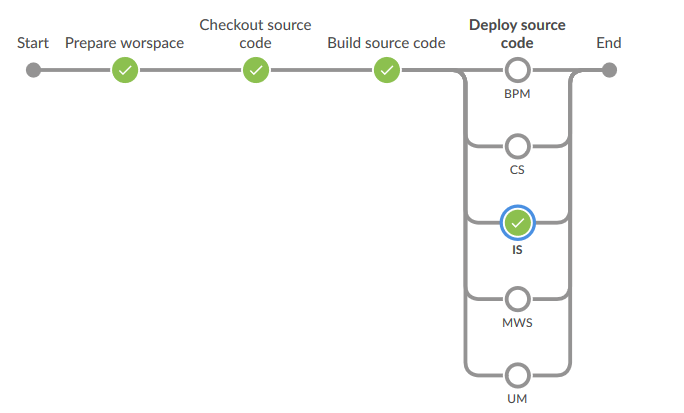
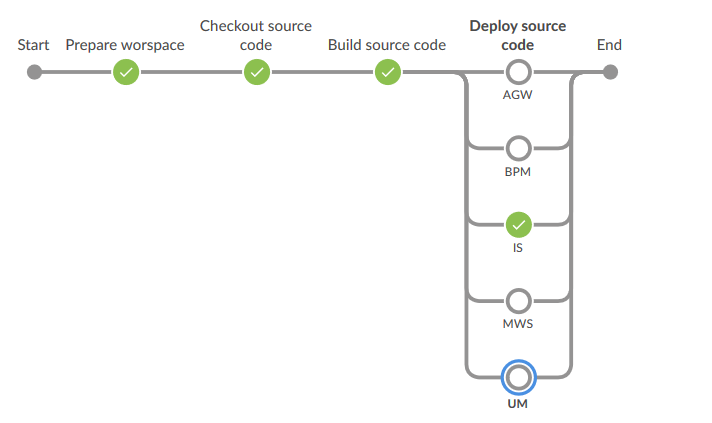
update framework for wm10.x versions

diff --git a/README.md b/README.md
@@ -27,7 +27,7 @@ ws-cleanup
 antisamy-markup-formatter
 ```
 
-* webMethods installation : 9.x ( 9.7 and above)
+* webMethods installation : 10.x ( 10.1 and above)
 
    * Integration Server : with Asset Build Environment and WmDeployer installed, this instance is used for build and deploy purpose
 
@@ -39,7 +39,7 @@ The following assets can be deployed with this framework :
 * IS : Integration server packages and configurations files (as supported by Asset Build environment)
 * UM : Universal Messaging assets
 * MWS : My webMethods server assets (Portlet, War...)
-* CS : CentraSite archives
+* AGW : API Gateway assets
 
 ## Configuration
 
@@ -117,12 +117,16 @@ dir.asset.bpm=bpm
 dir.asset.um=um/UniversalMessaging
 ## MWS (CAF)
 dir.asset.mws=mws
+## AGW (json extraction file)
+dir.asset.agw=api
 ```
 
 Which corresponds to an assets repository having the following structure
 
 ```
 ROOT_FOLDER/
+           api
+             /api.json
            esb
              /config
              /package1
@@ -180,16 +184,23 @@ Where COMPONENT can have the following values :
 * bpm : Process Engine target
 * um : Universal Messaging target
 * mws : My webMethods server target
+* agw : API Gateway server target
+
+For API Gateway only, update the following properties in order to extract assets from a source API Gateway : 
+
+* source.url.agw : source API Gateway URL
+* source.user.agw : source API Gateway user
+* source.pwd.agw: source API Gateway password
+* source.assets.file.agw : json extraction file (refer to API Gateway documentation) 
 
 #### Artifact repository configuration (Nexus)
 
-Update properties used for Nexus upload and download : 
+Update properties used for Nexus upload : 
 
 ```
 repo.artifact.credential=<NEXUS_CREDENTIAL>
 repo.artifact.url=<NEXUS_URL>
 repo.artifact.path.abe=<NEXUS_FOLDER_ABE>
-repo.artifact.path.cs=<NEXUS_FOLDER_CS>
 ```
 
 Where :
@@ -197,7 +208,6 @@ Where :
 * NEXUS_CREDENTIAL : Credential id used to connect to Nexus repository (basic authentification)
 * NEXUS_URL : URL of the repository
 * NEXUS_FOLDER_ABE : Folder where ACDL build output will be stored
-* NEXUS_FOLDER_CS : Folder where CentraSite archives should be stored
 
 ![Nexus folders](/resources/img/nexus_folders.png)
 
@@ -233,7 +243,7 @@ Run created job by providing inputs parameters :
 * ENABLE\_BPM\_BUILD : Process models build (true|false)
 * ENABLE\_MWS\_BUILD : My webMethods Server build (true|false)
 * ENABLE\_UM\_BUILD : Universal Messaging build (true|false)
-* ENABLE\_CS\_IMPORT : CentraSite import (true|false)
+* ENABLE\_AGW\_BUILD : API Gateway build (true|false)
 
 ## Pipeline workflow
 
@@ -244,7 +254,7 @@ Depending on parameters provided as inputs, below stages will be executed :
 1. Prepare workspace : always
 2. Checkout source code : always
 3. Build source code : always
-4. Deploy source code : any of ENABLE\_xxx\_BUILD=true or ENABLE\_CS\_IMPORT=true
+4. Deploy source code : any of ENABLE\_xxx\_BUILD=true
 
 
 _______________
